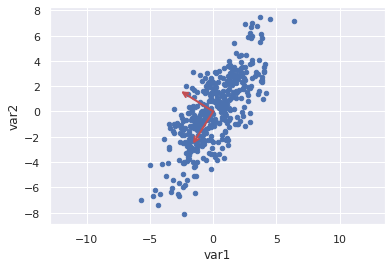
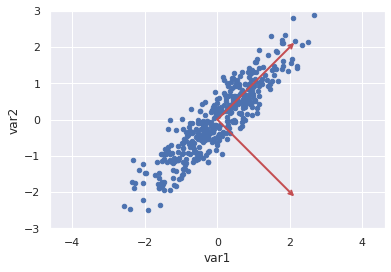
Update plots

diff --git a/_posts/2021-05-30-PCA-Inutition.md b/_posts/2021-05-30-PCA-Inutition.md
@@ -47,9 +47,11 @@ Let's look at each in turn.
 
 ### PCA as transformation of data to eigenbasis
 
-If we think of matrices as describing linear transformations, then you can think of PCA as just moving around our data points in such a way that the transformed data has the properties that we desire. As an example in the 2D case, look at the original and transformed data on the left and right below. 
+If we think of matrices as describing linear transformations, then you can think of PCA as just moving around our data points in such a way that the transformed data has the properties that we desire. As an example in the 2D case, look at the original (figure 1) and transformed (figure 2) data below. 
 
+##### Figure 1: Original data
 ![Graph1](/assets/graphs/orig_data_w_eig_vectors.png)
+##### Figure 2: Transformed data
 ![Graph2](/assets/graphs/transformed_data.png)
 
 More formally, what happens in the transformation is that we carry out a change of basis i.e. we move from using the typical basis vectors $$i$$ and $$j$$ (corresponding to the x and y axis in the 2d case) to using the eigenvectors in $$E$$ as our basis vectors. This special basis that we switch to is also called _eigenbasis_.
@@ -59,9 +61,11 @@ More formally, what happens in the transformation is that we carry out a change 
 
 In terms of projections, what's happening when we multiply our data by $$E^T$$ is that we get the _scalar projections_ of each of our $$n$$ observations on each of our $$k$$ eigenvectors. These scalar projections are just (scaled) dot products of an eigenvector and a $$k$$-dimensional column vector corresponding to an individual observation in our data (where the scaling factor is the norm of the eigenvector). The numerical value of the scalar projections correspond to the length of the projection. Note, that this will map each data point to a single number for each eigenvector.
 
-To visualise this process, we can multiply the transformed features once more by $$E^T$$ to arrive at the _vector projections_ of the data points and be able visualise their relationship to the original data better. Below I've done this for the principal components associated with each eigenvector. It is easy to see that the projections associated with the larger of the two eigenvalues (i.e. the first principal component) capture a larger variance in the original data.
+To visualise this process, we can multiply the transformed features once more by $$E^T$$ to arrive at the _vector projections_ of the data points and be able visualise their relationship to the original data better. Below, in figures 3 and 4, I've done this for the principal components associated with each eigenvector. To make it easier to verify visually that this works, I have highlighted three exemplary points in orange. It is easy to see that the projections associated with the larger of the two eigenvalues (i.e. the first principal component) capture a larger variance in the original data.
 
+##### Figure 3
 ![Graph1](/assets/graphs/pc1.png)
+##### Figure 4
 ![Graph2](/assets/graphs/pc2.png)
 
 # References
